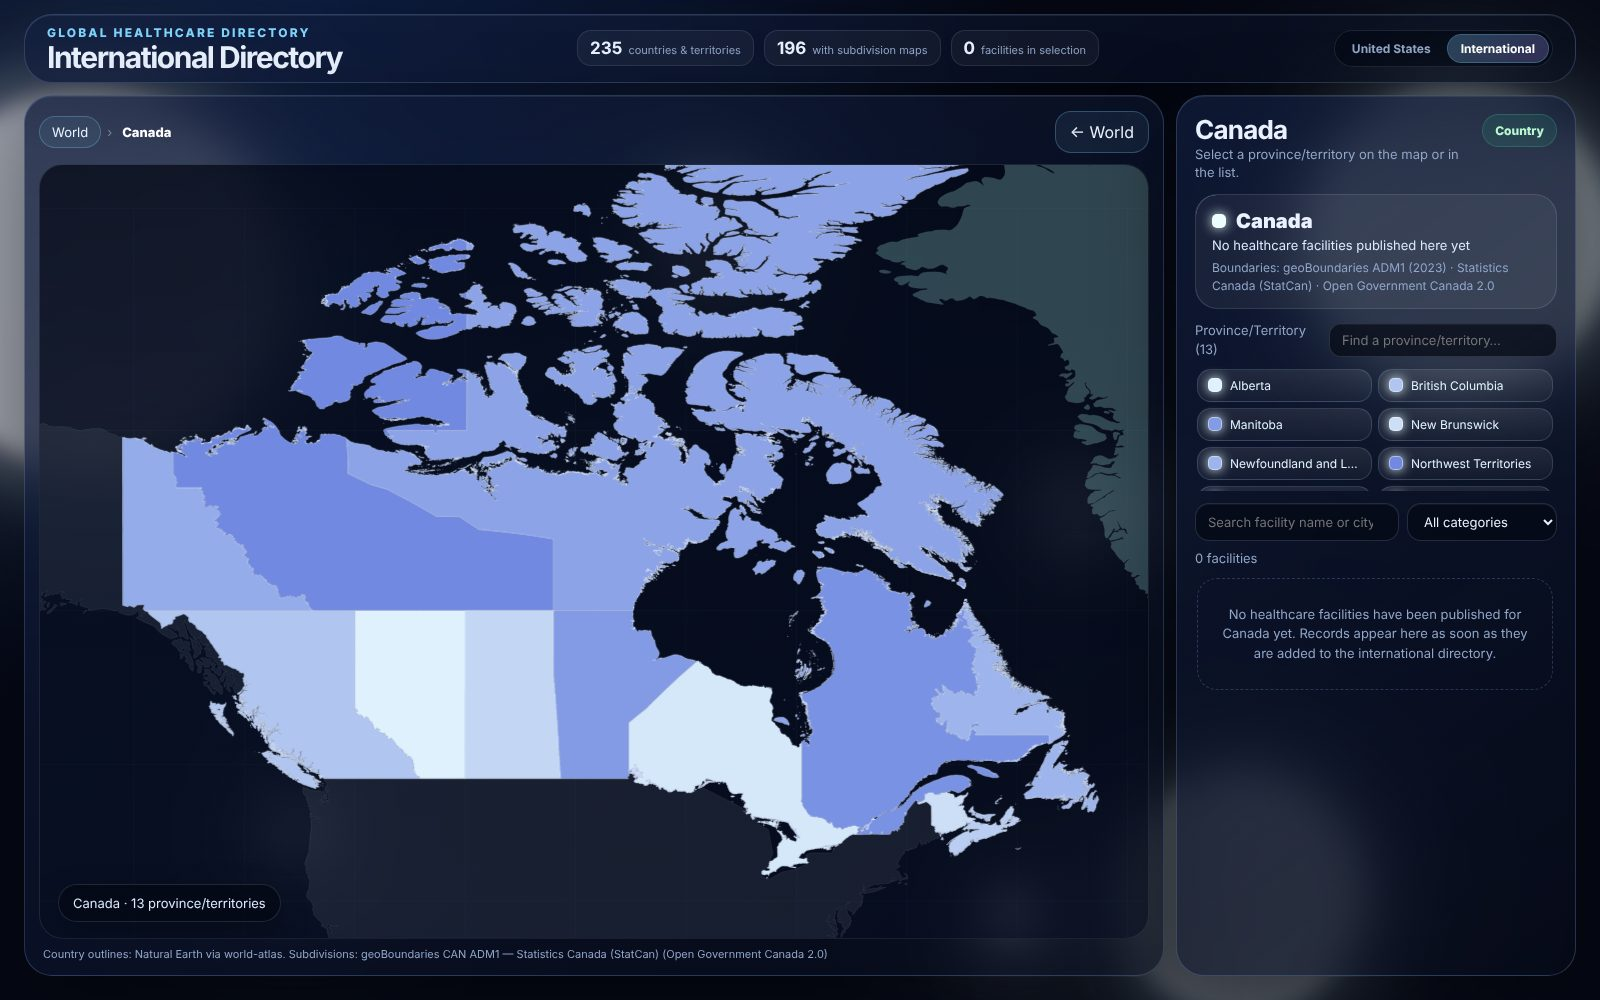
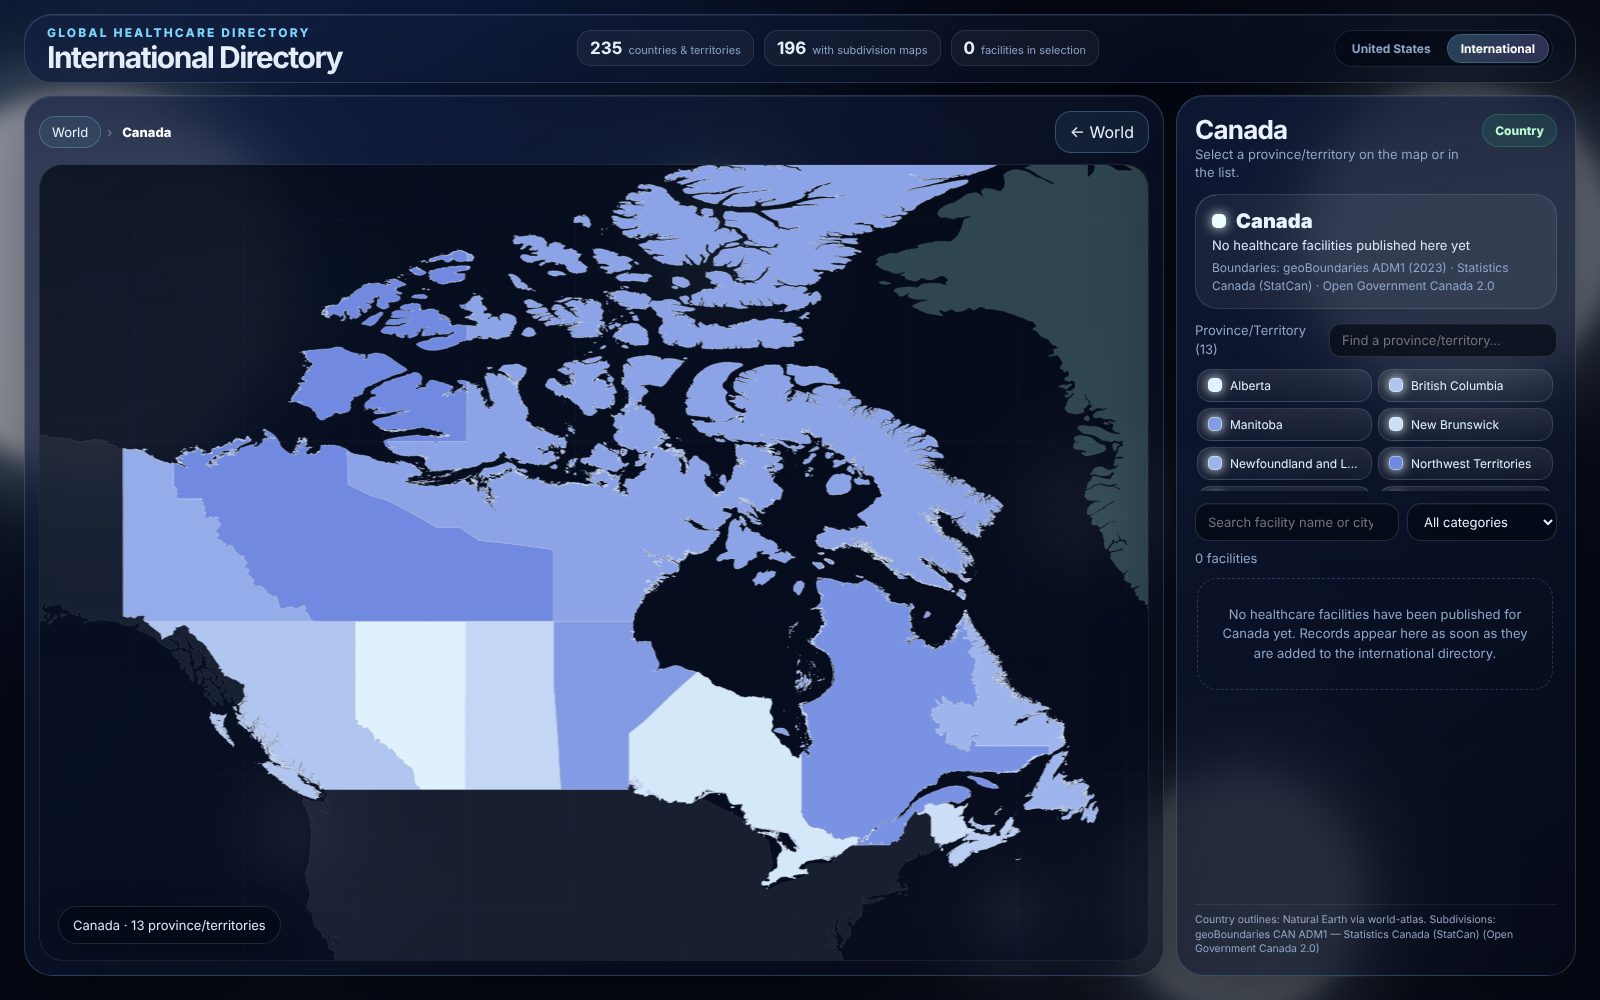
Move the boundary-source credit line from under the map to the sidebar foot
Frees ~22px of map height (map area ~830px -> ~852px at 1600x1000). The
credit still updates per country.

Claude-Session: https://claude.ai/code/session_01Qy7vVREGma9DSC7PB3AgeL

diff --git a/assets/css/world.css b/assets/css/world.css
@@ -85,7 +85,7 @@ button:disabled{opacity:.6;cursor:progress}
 .loading[hidden]{display:none}
 .tooltip{position:fixed;z-index:50;pointer-events:none;background:rgba(4,8,20,.92);border:1px solid var(--tip,rgba(125,211,252,.35));padding:10px 12px;border-radius:14px;box-shadow:0 12px 40px rgba(0,0,0,.45),0 0 24px var(--tipGlow,transparent);color:#fff;display:none;max-width:280px;font-size:13px;line-height:1.4}
 .tooltip small{color:var(--muted)}
-.attribution{margin:8px 4px 0;font-size:11px;color:var(--muted)}
+.attribution{margin:0;padding-top:8px;border-top:1px solid rgba(255,255,255,.07);font-size:10.5px;line-height:1.4;color:var(--muted);flex:0 0 auto}
 
 .sidePanel{padding:18px;display:flex;flex-direction:column;gap:12px;min-height:0;overflow:hidden}
 .sideTitle{display:flex;align-items:flex-start;justify-content:space-between;gap:12px}

diff --git a/world.html b/world.html
@@ -41,7 +41,6 @@
         <div class="geoProgress" id="geoProgress" hidden><span></span></div>
         <div class="loading" id="loading" role="status">Loading world boundaries…</div>
       </div>
-      <p class="attribution">Country outlines: Natural Earth via world-atlas. Subdivisions: <span id="geoCredit">geoBoundaries (gbOpen), loaded per country.</span></p>
     </main>
 
     <aside class="sidePanel glass" aria-labelledby="panelTitle">
@@ -66,6 +65,8 @@
         <div class="facilityList" id="facilityList" tabindex="-1"></div>
         <button id="loadMore" type="button" hidden>Load more facilities</button>
       </section>
+
+      <p class="attribution">Country outlines: Natural Earth via world-atlas. Subdivisions: <span id="geoCredit">geoBoundaries (gbOpen), loaded per country.</span></p>
     </aside>
   </div>
 
